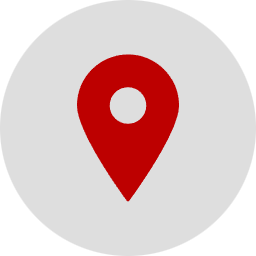
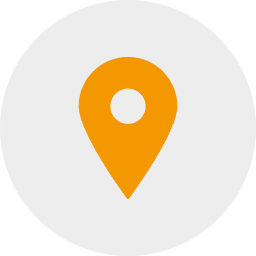
Styling Update

Changed region(s): [[0.2812, 0.1875, 0.7188, 0.7812]]

diff --git a/public/dist/js/pages/locationDashboard.js b/public/dist/js/pages/locationDashboard.js
@@ -2,6 +2,7 @@ document.addEventListener("DOMContentLoaded", function () {
 
     var linkIcon = `<svg fill="none" width="24" height="24" viewBox="0 0 25 25" xmlns="http://www.w3.org/2000/svg" version="1.1" xmlns:xlink="http://www.w3.org/1999/xlink" xmlns:svgjs="http://svgjs.dev/svgjs"><g width="100%" height="100%" transform="matrix(1,0,0,1,0,0)"><g clip-rule="evenodd" fill="rgb(0,0,0)" fill-rule="evenodd"><path d="m19.8876 4.64899c-.7494-.74943-1.9645-.74943-2.7139 0-.2929.2929-.7678.2929-1.0607 0-.2928-.29289-.2929-.76776 0-1.06066 1.3353-1.33522 3.5001-1.33522 4.8353 0 1.3352 1.33523 1.3352 3.50005 0 4.83528l-2.3591 2.35909c-1.2747 1.2747-3.3047 1.3325-4.6485.1735-.3137-.2705-.3487-.7441-.0782-1.05776.2705-.31368.7441-.34866 1.0578-.07814.7534.6497 1.8931.6169 2.6082-.09822l2.3591-2.35913c.7495-.74944.7495-1.96452 0-2.71396zm-3.4085 3.20454c-.7533-.64972-1.8931-.61688-2.6082.09821l-2.3591 2.35916c-.7495.7494-.7495 1.9645 0 2.7139.7494.7495 1.9645.7495 2.7139 0 .2929-.2929.7678-.2929 1.0607 0s.2929.7678 0 1.0607c-1.3352 1.3352-3.5001 1.3352-4.8353 0s-1.3352-3.5001 0-4.83528l2.3591-2.35913c1.2747-1.27469 3.3047-1.33242 4.6486-.17348.3136.27052.3486.74411.0781 1.05778-.2705.31368-.7441.34866-1.0578.07814z" fill="#ffffff" fill-opacity="1" data-original-color="#000000ff" stroke="none" stroke-opacity="1"/><path d="m11.1433 2.58691h.0564c.4142 0 .75.33579.75.75 0 .41422-.3358.75-.75.75-1.90681 0-3.26148.0016-4.28914.13976-1.00609.13527-1.58574.38894-2.00895.81215s-.67688 1.00285-.81214 2.00894c-.13817 1.02767-.13976 2.38233-.13976 4.28914v2c0 1.9068.00159 3.2615.13976 4.2892.13526 1.0061.38893 1.5857.81214 2.0089s1.00286.6769 2.00895.8122c1.02766.1381 2.38233.1397 4.28914.1397h2c1.9068 0 3.2615-.0016 4.2892-.1397 1.006-.1353 1.5857-.389 2.0089-.8122s.6769-1.0028.8121-2.0089c.1382-1.0277.1398-2.3824.1398-4.2892 0-.4142.3358-.75.75-.75s.75.3358.75.75v.0564c0 1.8378 0 3.2934-.1531 4.4326-.1577 1.1725-.4898 2.1214-1.2381 2.8698-.7484.7483-1.6973 1.0805-2.8698 1.2381-1.1392.1531-2.5948.1531-4.4326.1531h-2.1128c-1.83777 0-3.2934 0-4.43262-.1531-1.17242-.1576-2.12137-.4898-2.86973-1.2381-.74836-.7484-1.08048-1.6973-1.23811-2.8698-.15316-1.1392-.15315-2.5948-.15313-4.4326v-2.1128c-.00002-1.83776-.00003-3.29339.15313-4.43261.15763-1.17242.48975-2.12137 1.23811-2.86973.74836-.74837 1.69731-1.08048 2.86973-1.23811 1.13922-.15316 2.59485-.15315 4.43262-.15314z" fill="#ffffff" fill-opacity="1" data-original-color="#000000ff" stroke="none" stroke-opacity="1"/></g></g></svg>`;
 
+    OrgChart.RES.IT_IS_LONELY_HERE_LINK = "Add a location or sensor";
     // LOCATION TEMPALTE
     OrgChart.templates.locationTemplate = Object.assign({}, OrgChart.templates.ana);
     OrgChart.templates.locationTemplate.size = [300, 80];
@@ -13,7 +14,7 @@ document.addEventListener("DOMContentLoaded", function () {
     // SENSOR TEMPALTE
     OrgChart.templates.sensorTemplate = Object.assign({}, OrgChart.templates.ana);
     OrgChart.templates.sensorTemplate.size = [300, 80];
-    OrgChart.templates.sensorTemplate.node = `<rect x="0" y="0" height="80" width="300" fill="#cd9600" rx="15" ry="15"></rect>
+    OrgChart.templates.sensorTemplate.node = `<rect x="0" y="0" height="80" width="300" fill="#f39800" rx="15" ry="15"></rect>
             <circle cx="35" cy="40" r="47" fill="#d1d2d4" stroke="#fff" stroke-width="5"></circle>
             <clipPath id="{randId}"><circle cx="35" cy="40" r="46"></circle></clipPath>
             <image preserveAspectRatio="xMidYMid slice" clip-path="url(#{randId})" xlink:href="/assets/images/sensor-icon.png" x="-15" y="-10"  width="100" height="100"></image>`;

diff --git a/public/assets/css/style.css b/public/assets/css/style.css
@@ -10,6 +10,9 @@ body {
 .preloader {
     background: #c8e8ff;
 }
+a.canvasjs-chart-credit {
+    display: none !important;
+}
 p {
     font-size: 15px;
 }
@@ -86,12 +89,12 @@ div#sensor-reg-address {
     padding: 10px 0;
 }
 /* NAVIGATION */
-nav.main-header {
+/* nav.main-header {
     background: var(--primary-color);
-}
-.navbar-light .navbar-nav .nav-link {
-    color: #fff;
-}
+} */
+/* .navbar-light .navbar-nav .nav-link {
+    color: #000;
+} */
 .navbar-light .navbar-nav .nav-link:hover, .navbar-light .navbar-nav .nav-link:focus {
     color: var(--secondary-color);
 }
@@ -149,19 +152,49 @@ footer.main-footer {
 }
 ul.dashboard-tabs {
     background: var(--primary-color);
-    padding: 8px 10px 0px 10px;
+    padding: 12px;
+}
+.dashboard-tabs li.nav-item {
+    border-right: 1px solid #9f9f9f;
+}
+.dashboard-tabs li.nav-item:last-child {
+    border-right: 0px;
+}
+.dashboard-tabs .nav-link {
+    border:0px;
+}
+.dashboard-tabs .nav-link:hover {
+    background-color: #fff !important;
+    color: var(--primary-color) !important;
+    border-radius: 0px;
 }
 .dashboard-tabs .nav-link.active {
-    background-color: #f39800 !important;
-    color: #fff !important;
+    background-color: #fff !important;
+    color: var(--primary-color) !important;
     border: 0px;
+    border-radius: 0px;
 }
 /* LOCATION DASHBOARD */
+.location-dashboard-chart {
+    border-top: 5px solid var(--secondary-color);
+    border-radius: .25rem;
+    box-shadow: 0 0 1px rgba(0, 0, 0, .125), 0 1px 3px rgba(0, 0, 0, .2);
+}
 div#tree {
-    border-radius: 10px;
+    border-radius: .25rem;
     box-shadow: 0px 2px 15px 0px #dbdbdb;
 }
-
+.boc-edit-form-header {
+    background: #184aa1 !important;
+    border-radius: 0px !important;
+    padding: 10px !important;
+}
+.boc-light .boc-edit-form {
+    border-radius: 0px !important; 
+}
+.boc-edit-form-close {
+    top: 20px !important;
+}
 /* SENSOR MODELS */
 #sensor_details .card-header {
     background-color: var(--light-primary-color-1) !important;

diff --git a/resources/views/layouts/guest.blade.php b/resources/views/layouts/guest.blade.php
@@ -5,7 +5,7 @@
         <meta name="viewport" content="width=device-width, initial-scale=1">
         <meta name="csrf-token" content="{{ csrf_token() }}">
 
-        <title>{{ config('app.name', 'SIIX Login - EnMMS') }}</title>
+        <title>SIIX - Login</title>
 
         <!-- Fonts -->
         <link rel="icon" type="image/x-icon" href="{{ asset('assets/images/siix-logo.png')}}">

diff --git a/resources/views/pages/location-dashboard.blade.php b/resources/views/pages/location-dashboard.blade.php
@@ -16,7 +16,9 @@
         Location Dashboard
     </x-slot>
     <x-slot name="content">
-        <div id="tree"></div>
+        <div class="location-dashboard-chart">
+            <div id="tree"></div>
+        </div>
     </x-slot>
     <x-slot name="importedScripts">
         <script src="{{ asset('assets/js/orgchart.js') }}"></script>
